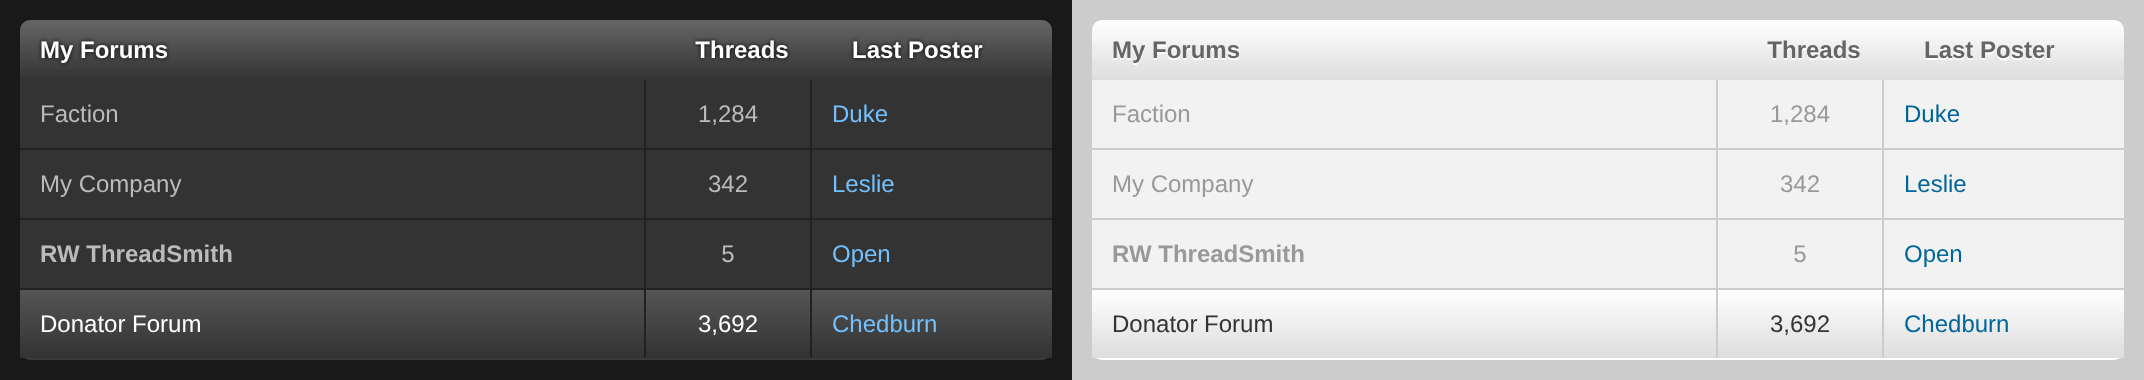
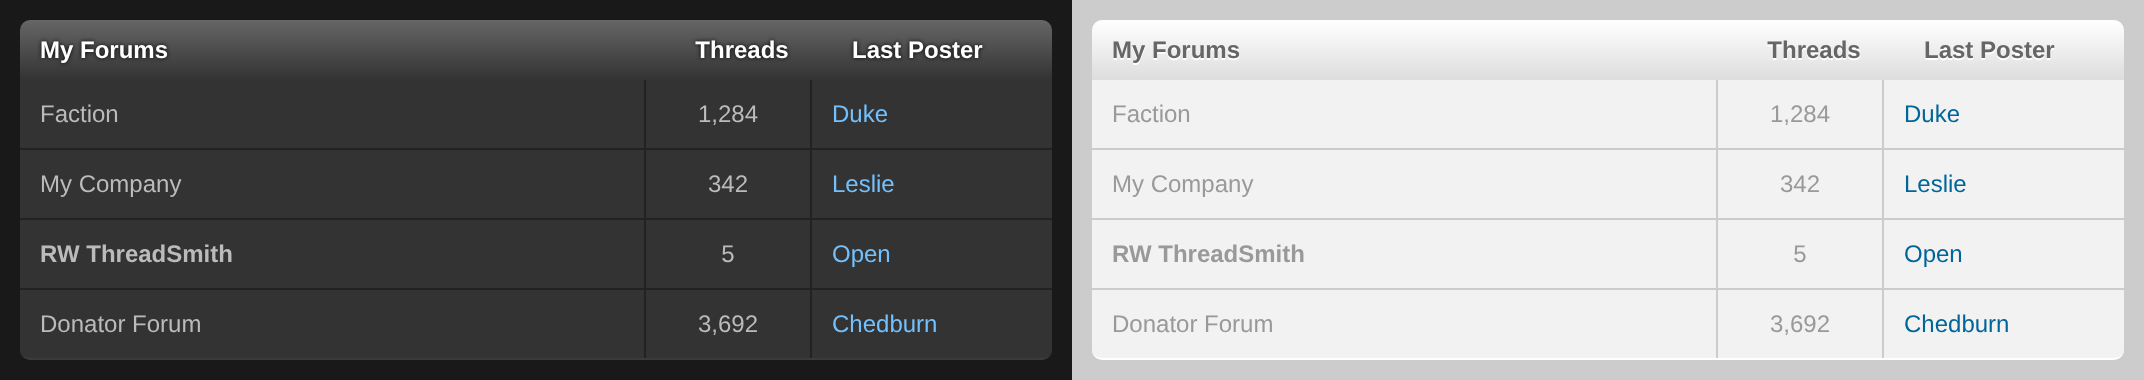
Add files via upload

diff --git a/README.md b/README.md
@@ -17,8 +17,6 @@ Sync your bazaar, inventory or Item Market, price everything in one vault, and e
 
 <img src="assets/design-boutique.png" alt="A shop image rendered in the Luxury Boutique design" width="420"> <img src="assets/design-brutal.png" alt="A shop image rendered in the Neo Brutalist design" width="420">
 
-<sub>Two of the 14 designs. Every image in this README was rendered by the script itself.</sub>
-
 </div>
 
 ---
